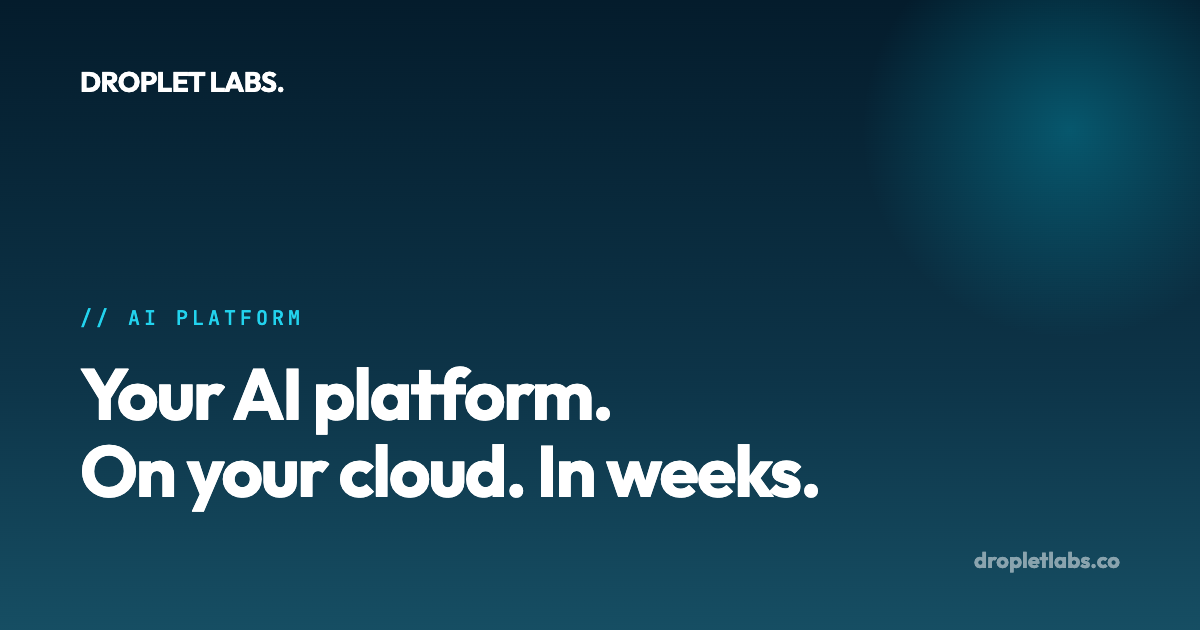
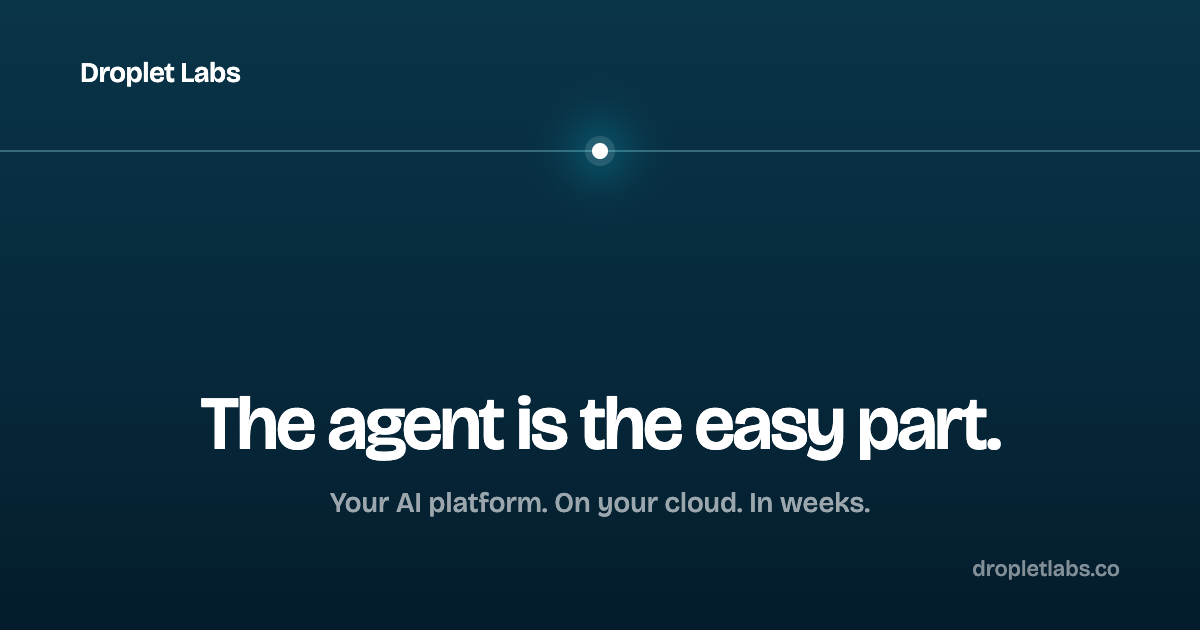
feat: Regenerate OG image for the story hero

diff --git a/scripts/og-image.html b/scripts/og-image.html
@@ -4,7 +4,7 @@
     <meta charset="utf-8" />
     <title>OG image source</title>
     <link
-      href="https://fonts.googleapis.com/css2?family=Outfit:wght@700&family=JetBrains+Mono:wght@500&display=swap"
+      href="https://fonts.googleapis.com/css2?family=Bricolage+Grotesque:opsz,wght@12..96,500;12..96,600&display=swap"
       rel="stylesheet"
     />
     <style>
@@ -17,62 +17,74 @@
       }
       body {
         position: relative;
-        background: linear-gradient(180deg, #041c2c 0%, #0d3448 60%, #164e63 100%);
-        font-family: "Outfit", sans-serif;
+        background: linear-gradient(180deg, #0a3448 0%, #06283a 60%, #041c2c 100%);
+        font-family: "Bricolage Grotesque", sans-serif;
         color: #fff;
       }
-      .orb {
+      .surface {
         position: absolute;
-        right: -80px;
-        top: -80px;
-        width: 420px;
-        height: 420px;
+        left: 0;
+        right: 0;
+        top: 150px;
+        height: 2px;
+        background: rgba(165, 243, 252, 0.3);
+      }
+      .agent {
+        position: absolute;
+        left: 50%;
+        top: 143px;
+        width: 16px;
+        height: 16px;
+        margin-left: -8px;
         border-radius: 50%;
-        background: radial-gradient(circle, rgba(6, 182, 212, 0.35), transparent 70%);
+        background: #fff;
+        box-shadow: 0 0 0 7px rgba(255, 255, 255, 0.12), 0 0 48px 14px rgba(6, 182, 212, 0.6);
       }
       .logo {
         position: absolute;
-        top: 64px;
+        top: 56px;
         left: 80px;
-        font-weight: 700;
+        font-weight: 600;
         font-size: 28px;
         letter-spacing: -0.02em;
       }
       .content {
         position: absolute;
         left: 80px;
-        bottom: 120px;
-        width: 1000px;
-      }
-      .eyebrow {
-        font-family: "JetBrains Mono", monospace;
-        font-size: 20px;
-        letter-spacing: 0.2em;
-        color: #22d3ee;
-        margin-bottom: 24px;
+        right: 80px;
+        bottom: 110px;
+        text-align: center;
       }
       h1 {
         margin: 0;
-        font-size: 72px;
-        line-height: 1.08;
+        font-size: 76px;
+        line-height: 1;
         letter-spacing: -0.03em;
-        font-weight: 700;
+        font-weight: 600;
+        font-variation-settings: "opsz" 96;
+      }
+      .sub {
+        margin-top: 24px;
+        font-size: 28px;
+        font-weight: 500;
+        color: rgba(255, 255, 255, 0.6);
       }
       .url {
         position: absolute;
         right: 80px;
-        bottom: 56px;
+        bottom: 48px;
         font-size: 22px;
         color: rgba(255, 255, 255, 0.5);
       }
     </style>
   </head>
   <body>
-    <div class="orb"></div>
-    <div class="logo">DROPLET LABS.</div>
+    <div class="logo">Droplet Labs</div>
+    <div class="surface"></div>
+    <div class="agent"></div>
     <div class="content">
-      <div class="eyebrow">// AI PLATFORM</div>
-      <h1>Your AI platform.<br />On your cloud. In weeks.</h1>
+      <h1>The agent is the easy part.</h1>
+      <div class="sub">Your AI platform. On your cloud. In weeks.</div>
     </div>
     <div class="url">dropletlabs.co</div>
   </body>

diff --git a/src/app/layout.tsx b/src/app/layout.tsx
@@ -29,7 +29,7 @@ export const metadata: Metadata = {
         url: "/og-image.png",
         width: 1200,
         height: 630,
-        alt: "Droplet Labs — Your AI platform. On your cloud. In weeks.",
+        alt: "Droplet Labs — The agent is the easy part. Your AI platform, on your cloud, in weeks.",
       },
     ],
     type: "website",
